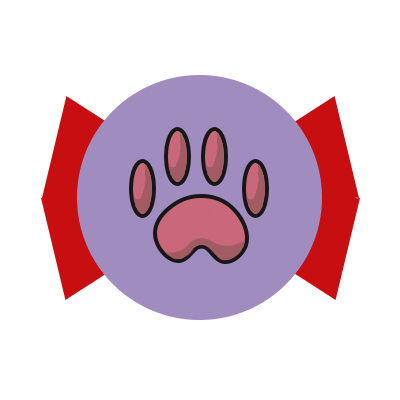
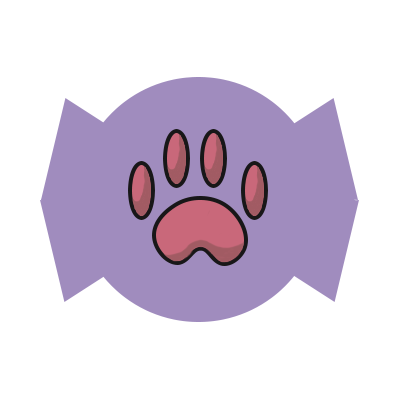
final commit

diff --git a/my_phenakistoscope.js b/my_phenakistoscope.js
@@ -78,7 +78,7 @@ else if(animation.frame>0.5&&animation.frame<0.9){
  fill(255)  
  }
 else{
- fill(199,14,17) 
+ fill(160,140,190) 
  }
 arc(x,y,1875,1875,backgroundArcStartsecondbackground,backgroundArcEndsecondbackground)   
 }
@@ -100,7 +100,7 @@ function secondmiddlebackground(x, y, animation, pScope){
   let angleOffsetsecondbackground = (360 / SLICE_COUNT)/2
   let backgroundArcStartsecondbackground = 270 - angleOffsetsecondbackground
   let backgroundArcEndsecondbackground = 270 + angleOffsetsecondbackground
-  fill(160,140,190)
+  fill(160,140,190) //160,140,190, 199,14,17
   arc(x,y,1500,1500,backgroundArcStartsecondbackground,backgroundArcEndsecondbackground)  
 }
 
